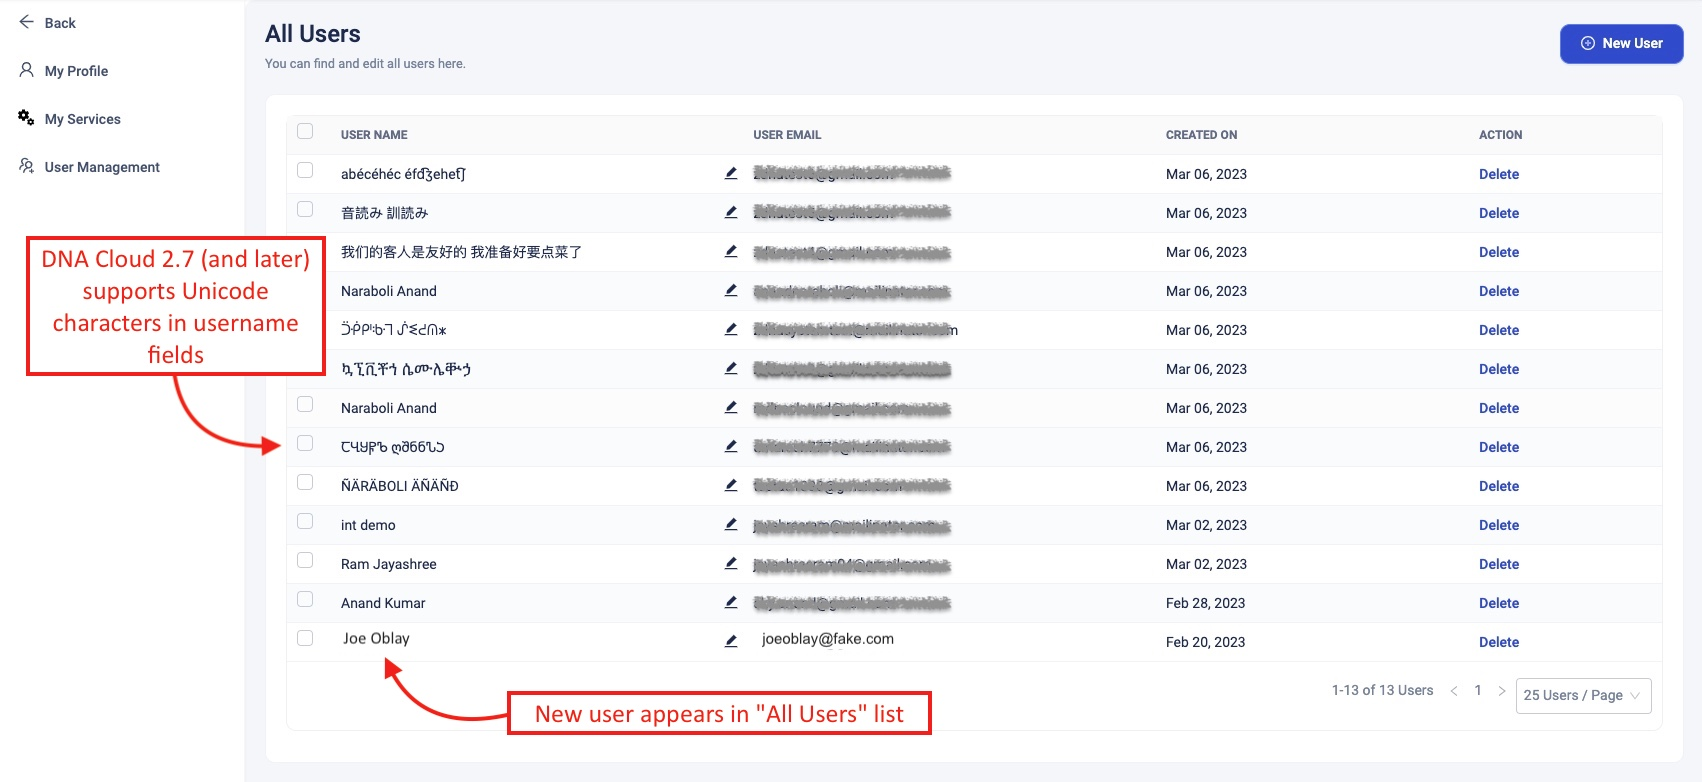
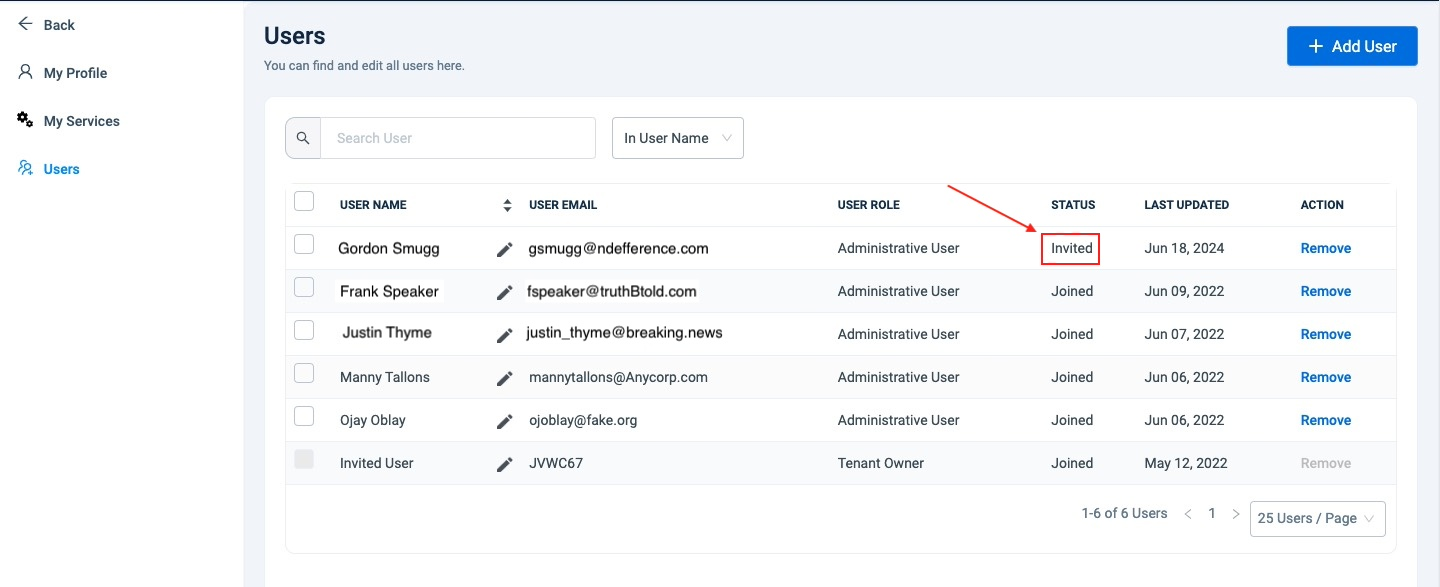
[TUT-98054] ZDNA 3.14 login flow updates, per PdM

diff --git a/zebradna/3-14/setup/index.html b/zebradna/3-14/setup/index.html
@@ -532,7 +532,7 @@ Uninstall ZDNA client, purges device device from the system. Settings remain.
 
 <hr>
 
-<p><strong>4. Enter user info and click "Add"</strong>:
+<p><strong>4. Enter the user's email address and click "Add"</strong> to send a DNA Cloud enrollment invitation:
 <img alt="image" style="height:250px" src="user_admin_02.png">
 <em>Click image to enlarge; ESC to exit.</em>
 <br></p>
@@ -541,7 +541,7 @@ Uninstall ZDNA client, purges device device from the system. Settings remain.
 
 <hr>
 
-<p><strong>5. New user appears in All Users list</strong>: <br>
+<p>5. Prior to enrolling, <strong>newly invited users appear as "invited" the All Users list</strong>: <br>
 <img alt="image" style="height:350px" src="27_unicode_users.jpg">
 <em>Click image to enlarge; ESC to exit.</em>
 <br></p>
